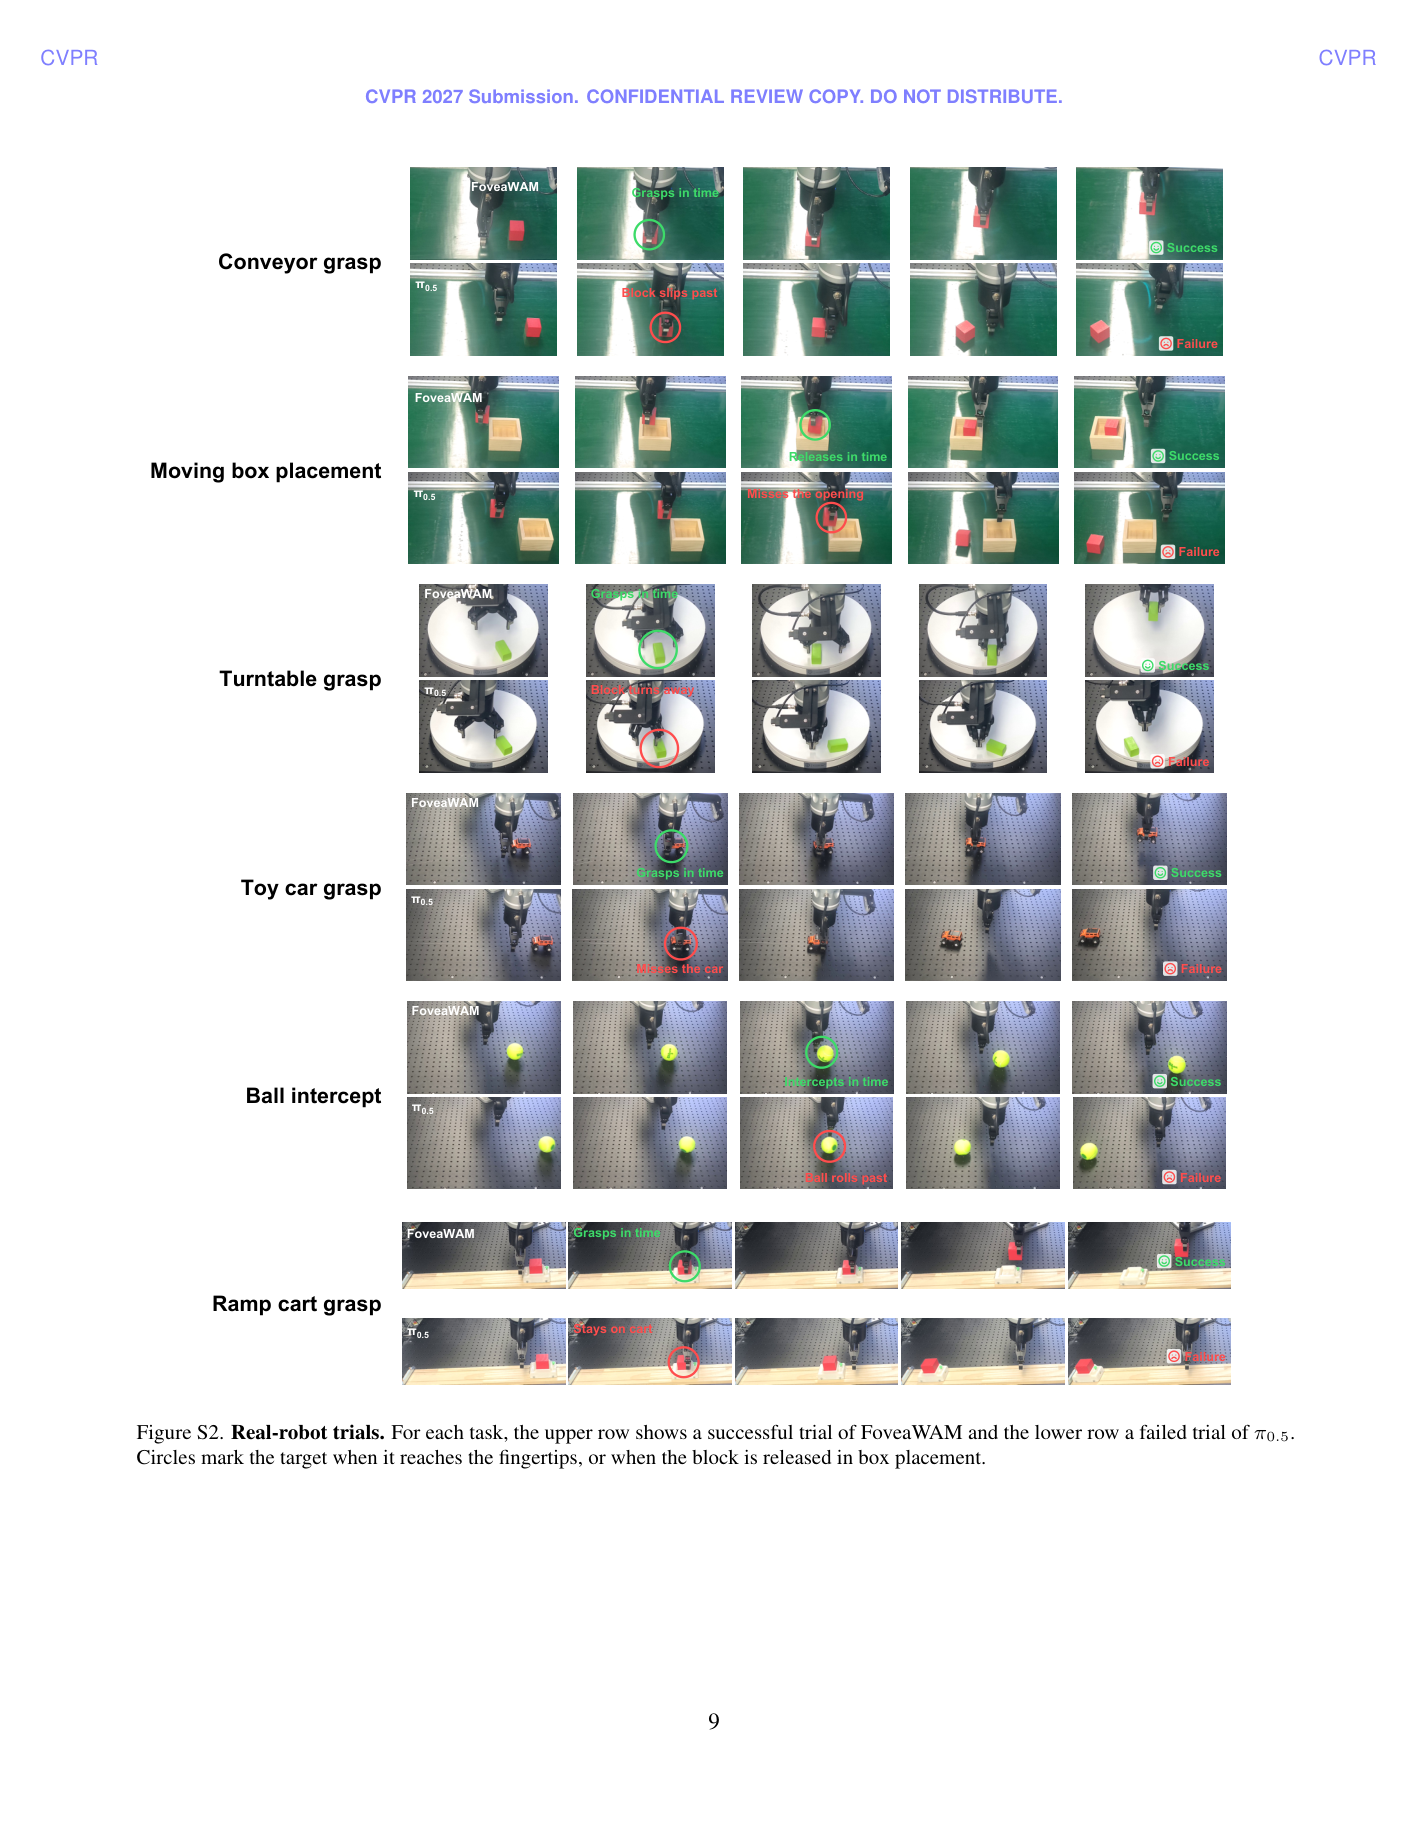
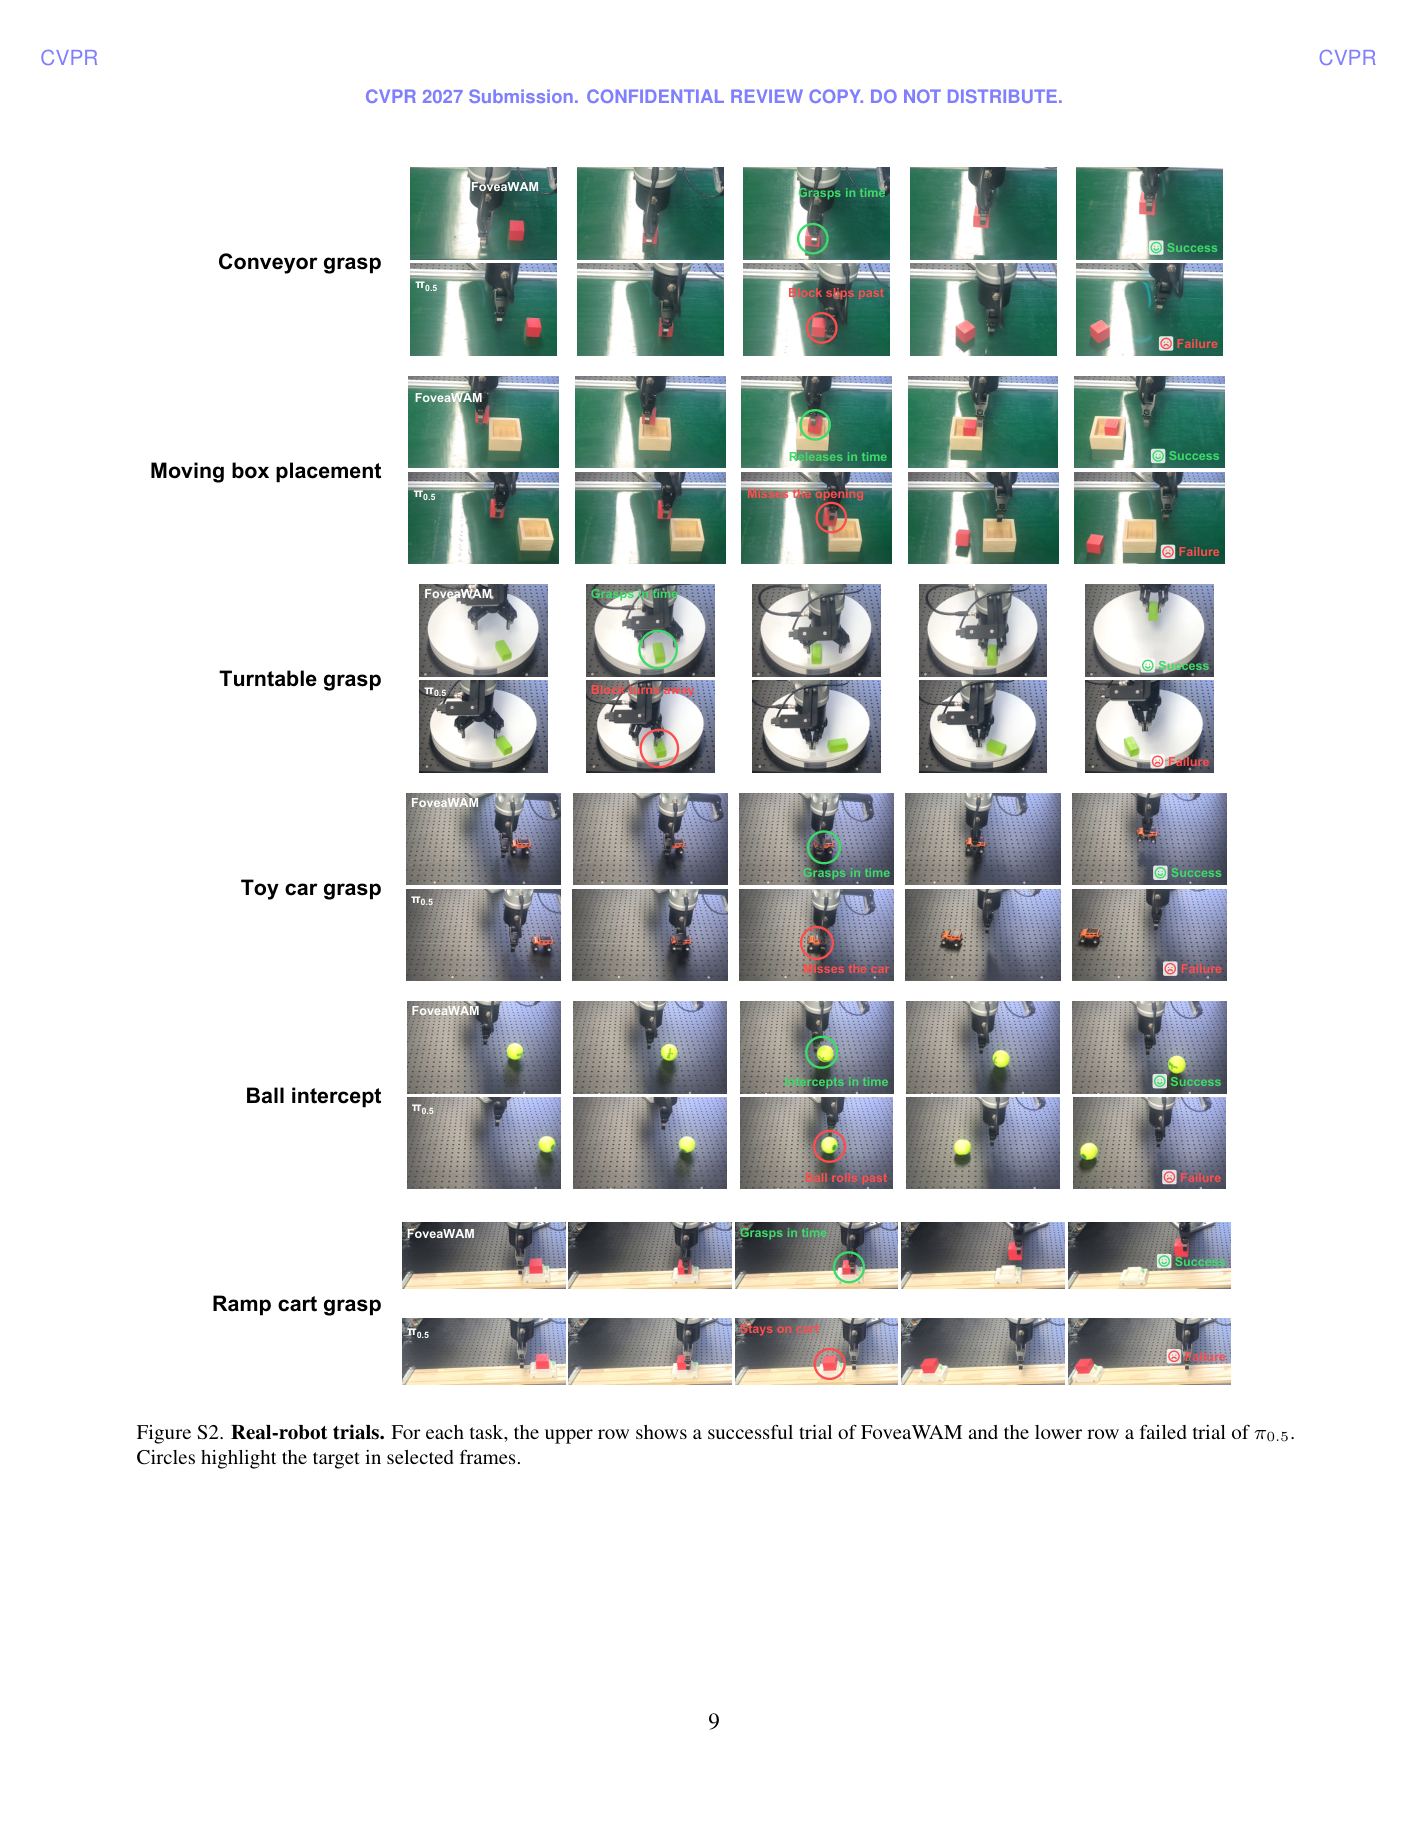
Move selected real-robot callouts to the third frame

diff --git a/figures/FigS2_real/build_real_trials.py b/figures/FigS2_real/build_real_trials.py
@@ -48,7 +48,8 @@ class Row:
 @dataclass(frozen=True)
 class Task:
     name: str
-    key_column: int
+    zero_column: int
+    annotation_column: int
     radius: float
     rows: tuple[Row, Row]
 
@@ -57,29 +58,29 @@ class Task:
 # Method and callout offsets are in pt. Target centres are fractions of width and
 # height, and outcome offsets are the margins from the right and bottom edges.
 TASKS = (
-    Task('Conveyor grasp', 2, 6.3, (
-        Row((25.9, 6.1), (.494, .729), (23.3, 8.7), (2.0, 2.0), 'Grasps in time'),
-        Row((2.0, 6.6), (.604, .694), (19.0, 10.5), (2.0, 2.0), 'Block slips past'),
+    Task('Conveyor grasp', 2, 3, 6.3, (
+        Row((25.9, 6.1), (.474, .773), (23.3, 8.7), (2.0, 2.0), 'Grasps in time'),
+        Row((2.0, 6.6), (.535, .700), (19.0, 10.5), (2.0, 2.0), 'Block slips past'),
     )),
-    Task('Moving box placement', 3, 6.3, (
+    Task('Moving box placement', 3, 3, 6.3, (
         Row((2.5, 7.3), (.490, .530), (20.1, 32.35), (2.0, 2.0), 'Releases in time'),
         Row((2.0, 6.8), (.598, .495), (2.3, 7.1), (2.0, 2.0), 'Misses the opening'),
     )),
-    Task('Turntable grasp', 2, 8.0, (
+    Task('Turntable grasp', 2, 2, 8.0, (
         Row((1.9, 1.8), (.562, .707), (1.9, 1.8), (1.7, 1.55), 'Grasps in time'),
         Row((1.9, 1.8), (.572, .741), (1.9, 1.8), (1.7, 1.55), 'Block turns away'),
     )),
-    Task('Toy car grasp', 2, 6.8, (
-        Row((1.9, 2.0), (.638, .580), (27.1, 32.25), (2.0, 2.0), 'Grasps in time'),
-        Row((1.9, 2.0), (.699, .596), (27.1, 32.25), (2.0, 2.0), 'Misses the car'),
+    Task('Toy car grasp', 2, 3, 6.8, (
+        Row((1.9, 2.0), (.548, .592), (27.1, 32.25), (2.0, 2.0), 'Grasps in time'),
+        Row((1.9, 2.0), (.502, .589), (27.1, 32.25), (2.0, 2.0), 'Misses the car'),
     )),
-    Task('Ball intercept', 3, 6.6, (
+    Task('Ball intercept', 3, 3, 6.6, (
         Row((1.9, 2.0), (.533, .554), (18.9, 32.25), (2.0, 2.0), 'Intercepts in time'),
         Row((1.9, 2.0), (.585, .534), (27.6, 32.25), (2.0, 2.0), 'Ball rolls past'),
     )),
-    Task('Ramp cart grasp', 2, 6.4, (
-        Row((1.9, 2.6), (.713, .660), (1.9, 2.3), (2.15, 8.8), 'Grasps in time'),
-        Row((2.0, 3.3), (.706, .660), (1.9, 2.3), (2.15, 9.1), 'Stays on cart'),
+    Task('Ramp cart grasp', 2, 3, 6.4, (
+        Row((1.9, 2.6), (.699, .675), (1.9, 2.3), (2.15, 8.8), 'Grasps in time'),
+        Row((2.0, 3.3), (.580, .686), (1.9, 2.3), (2.15, 9.1), 'Stays on cart'),
     )),
 )
 HEIGHT = len(TASKS) * TASK_HEIGHT + (len(TASKS) - 1) * TASK_GAP
@@ -99,8 +100,10 @@ def source_frames(file: Path) -> list[list[Frame]]:
             raise ValueError(f'expected {len(TASKS)} task pages in {file}')
         for page, task in zip(source, TASKS, strict=True):
             times = re.findall(r'^([−+\-]?\d+\.\d+) s\s*$', page.get_text(), re.MULTILINE)
-            if len(times) != 5 or times.index('0.0') + 1 != task.key_column:
-                raise ValueError(f'check the key column and five offsets for {task.name}: {times}')
+            if len(times) != 5 or times[task.zero_column - 1] != '0.0':
+                raise ValueError(f'check the zero column and five offsets for {task.name}: {times}')
+            if not 1 <= task.annotation_column <= len(times):
+                raise ValueError(f'check the annotation column for {task.name}: {task.annotation_column}')
             items = sorted(page.get_image_info(xrefs=True), key=lambda image: (round(image['bbox'][1], 2), image['bbox'][0]))
             if len(items) != 10:
                 raise ValueError(f'expected ten source images for {task.name}, got {len(items)}')
@@ -225,7 +228,7 @@ def draw_figure(file: Path, tasks: list[list[Frame]], columns: tuple[float, ...]
                 box = place_frame(page, frames[5 * row_index + column], x, y)
                 if column == 0:
                     draw_method(page, box, row.method, row_index)
-                if column == task.key_column - 1:
+                if column == task.annotation_column - 1:
                     draw_callout(page, box, row, task.radius, ROW_COLORS[row_index])
                 if column == 4:
                     draw_outcome(page, box, row.outcome, row_index)

diff --git a/appendix/real.tex b/appendix/real.tex
@@ -78,7 +78,7 @@ end, and arrows show the forecast sparse 3D flow.}
 \centering
 \includegraphics[width=\textwidth]{figures/FigS2_real/real_trials.pdf}
 \caption{\textbf{Real-robot trials.} For each task, the upper row shows a successful
-trial of \ours and the lower row a failed trial of $\pi_{0.5}$. Circles mark the target
-when it reaches the fingertips, or when the block is released in box placement.}
+trial of \ours and the lower row a failed trial of $\pi_{0.5}$. Circles highlight the
+target in selected frames.}
 \label{fig:real_rollouts}
 \end{figure*}

diff --git a/zh/appendix/real.tex b/zh/appendix/real.tex
@@ -53,6 +53,6 @@
 \begin{figure*}[p]
 \centering
 \includegraphics[width=\textwidth]{figures/FigS2_real/real_trials.pdf}
-\caption{\textbf{真机试次。}每项任务上方一行是 \ours 的成功试次，下方一行是 $\pi_{0.5}$ 的失败试次。圆圈标出目标到达指尖时的目标，移动盒放置标出松开方块时的目标。}
+\caption{\textbf{真机试次。}每项任务上方一行是 \ours 的成功试次，下方一行是 $\pi_{0.5}$ 的失败试次。圆圈标出所选帧中的目标。}
 \label{fig:real_rollouts}
 \end{figure*}

diff --git a/figures/FigS2_real/INDEX.md b/figures/FigS2_real/INDEX.md
@@ -2,20 +2,20 @@
 
 [论文图体](real_trials.pdf)供[英文附录](../../appendix/real.tex)和[中文附录](../../zh/appendix/real.tex)共用。[600 dpi 预览](real_trials.png)和[跨页核对图](spread_preview.png)可用于审阅。
 
-## 素材与关键帧
+## 素材与标注帧
 
 源文件是 `D:/workspace/se3-wam-research/local_private/real-robot-demo/2026-11-14/六任务胶卷图.pdf`。每页按上下两行和从左到右的顺序提取十张 JPEG。上行采用 FoveaWAM 的成功试次，下行采用 π₀.₅ 的失败试次。生成脚本逐张核对输出 PDF 与源 JPEG 的字节。
 
-| 任务 | 上行 | 下行 | 源表五列相对时刻（秒） | 0.0 s 列 |
-|---|---:|---:|---|---:|
-| Conveyor grasp | #64 | #71 | −0.8、0.0、+0.3、+0.8、+1.5 | 2 |
-| Moving box placement | #85 | #78 | −0.6、−0.2、0.0、+0.3、+0.9 | 3 |
-| Turntable grasp | #126 | #122 | −0.6、0.0、+0.4、+1.0、+2.6 | 2 |
-| Toy car grasp | #35 | #36 | −0.6、0.0、+0.8、+2.6、+3.3 | 2 |
-| Ball intercept | #15 | #06 | −0.4、−0.2、0.0、+0.3、+0.7 | 3 |
-| Ramp cart grasp | #138 | #135 | −0.4、0.0、+0.3、+1.1、+2.0 | 2 |
+| 任务 | 上行 | 下行 | 源表五列相对时刻（秒） | 0.0 s 列 | 标注列 |
+|---|---:|---:|---|---:|---:|
+| Conveyor grasp | #64 | #71 | −0.8、0.0、+0.3、+0.8、+1.5 | 2 | 3 |
+| Moving box placement | #85 | #78 | −0.6、−0.2、0.0、+0.3、+0.9 | 3 | 3 |
+| Turntable grasp | #126 | #122 | −0.6、0.0、+0.4、+1.0、+2.6 | 2 | 2 |
+| Toy car grasp | #35 | #36 | −0.6、0.0、+0.8、+2.6、+3.3 | 2 | 3 |
+| Ball intercept | #15 | #06 | −0.4、−0.2、0.0、+0.3、+0.7 | 3 | 3 |
+| Ramp cart grasp | #138 | #135 | −0.4、0.0、+0.3、+1.1、+2.0 | 2 | 3 |
 
-六项的 0.0 秒列均与任务单一致。Ball intercept 成功行第 3 列是 #15 原片 5.733 秒的首次可见触球帧。失败行第 3 列是 #06 原片 3.833 秒的指尖线通过时刻。
+六项的 0.0 秒列均按源 PDF 核对。T1、T4、T6 的上下两行用第三帧展示圆圈和短注。Ball intercept 成功行第 3 列是 #15 原片 5.733 秒的首次可见触球帧。失败行第 3 列是 #06 原片 3.833 秒的指尖线通过时刻。
 
 ## 失败短注核对
 
